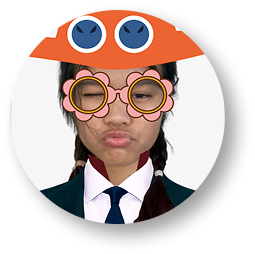
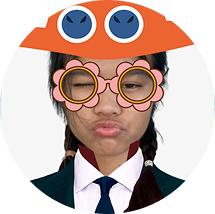
แก้textเบี้ยว

diff --git a/frontend/members.css b/frontend/members.css
@@ -36,6 +36,7 @@ h1 {
   flex-wrap: wrap;
   gap: 100px;
   justify-content: center;
+  text-align: center;
   margin: 5vh 10vw 30vh 10vw;
 }
 
@@ -45,6 +46,7 @@ h1 {
   align-items: center;
   padding: 10px;
   width: 150px;
+  text-align: center;
 }
 
 .memberImg {
@@ -52,6 +54,7 @@ h1 {
   height: 200px;
   object-fit: cover;
   border-radius: 50%;
+  box-shadow: 2px 10px 20px rgba(0, 0, 0, 0.5); /* x, y, blur, color */
 }
 
 .memberName {
@@ -66,4 +69,5 @@ h1 {
   font-size: 20px;
   font-weight: bold;
   text-align: center;
+  margin-top: 15px;
 }
